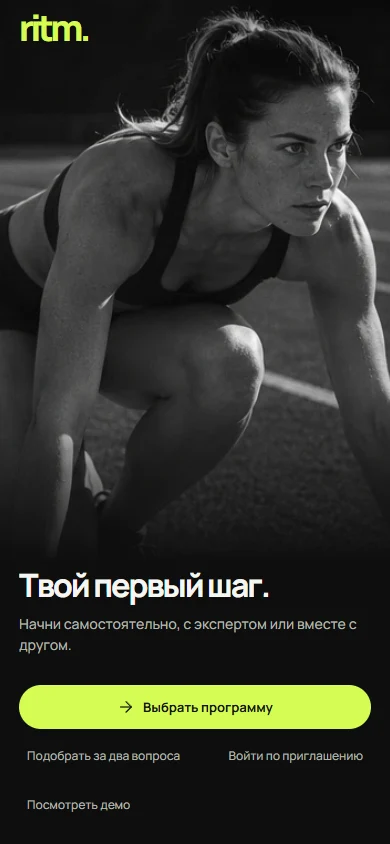
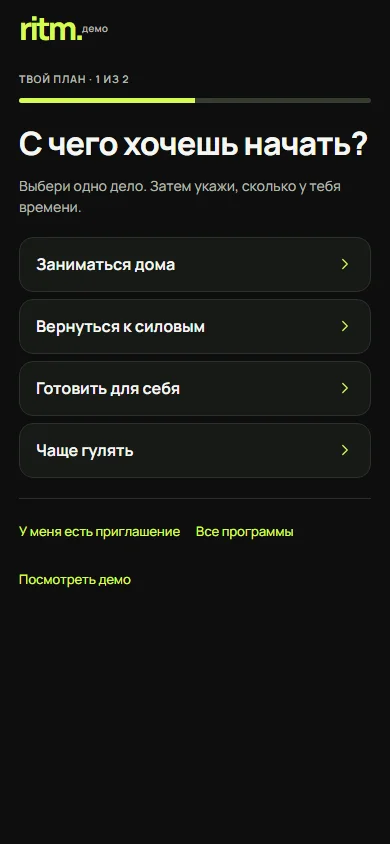
Open the founder preview with the personal questionnaire

diff --git a/docs/meeting/screens/index.html b/docs/meeting/screens/index.html
@@ -1,3 +1,3 @@
 <!DOCTYPE html>
 
-<html lang="ru"><meta charset="utf-8"/><meta content="width=device-width,initial-scale=1" name="viewport"/><title>ritm. — Экраны приложения</title><link href="../assets/fonts.css" rel="stylesheet"/><style>*{box-sizing:border-box}body{margin:0 auto;background:#0d0e0d;color:#f5f6f2;max-width:1100px;padding:24px 18px 70px;font:500 15px/1.45 "Manrope Variable",sans-serif}header{display:flex;align-items:center;justify-content:space-between}header b{font-size:30px;letter-spacing:-.08em;color:#d5fc53}a{color:#d5fc53;text-underline-offset:.2em}h1{letter-spacing:-.05em;font-size:clamp(31px,6vw,54px);line-height:1.1}h2{border-top:1px solid #353831;padding-top:20px;margin:30px 0 12px}.grid{display:grid;grid-template-columns:repeat(auto-fit,minmax(min(158px,44%),1fr));gap:15px}.image{display:block;max-width:240px;border-radius:14px;overflow:hidden;border:1px solid #343930}img{display:block;width:100%;height:auto}h3{font-size:15px;margin:8px 0 1px}p{margin:4px 0;color:#b1b6ac;font-size:13px}article>p a{display:inline-block;padding:5px 0}</style><header><b>ritm.</b><a href="../?screen=programs">Открыть приложение ↗</a></header><h1>Экраны RITM</h1><p>Снимки работающего приложения. Нажми на экран, чтобы рассмотреть детали.</p><a href="RITM-meeting.pdf">PDF для встречи · Founder Preview 1.0</a><section id="solo"><h2>Начать самостоятельно</h2><div class="grid"><article><a class="image" href="solo-programs-390.webp"><img alt="Выбрать программу для себя" loading="lazy" src="solo-programs-390.webp"/></a><h3>Выбрать программу для себя</h3><p><a href="solo-programs-375.webp">375 px</a> · <a href="solo-programs-390.webp">390 px</a> · <a href="solo-programs-430.webp">430 px</a></p></article><article><a class="image" href="plus-390.webp"><img alt="RITM PLUS · тариф для одного" loading="lazy" src="plus-390.webp"/></a><h3>Личный тариф за 990 ₽ в месяц</h3><p><a href="plus-375.webp">375 px</a> · <a href="plus-390.webp">390 px</a> · <a href="plus-430.webp">430 px</a></p></article><article><a class="image" href="coach-390.webp"><img alt="Личный тренер на 28 дней" loading="lazy" src="coach-390.webp"/></a><h3>Личный тренер · 4 990 ₽ за 28 дней</h3><p><a href="coach-375.webp">375 px</a> · <a href="coach-390.webp">390 px</a> · <a href="coach-430.webp">430 px</a></p></article><article><a class="image" href="nutritionist-390.webp"><img alt="Личный нутрициолог на 28 дней" loading="lazy" src="nutritionist-390.webp"/></a><h3>Личный нутрициолог · 12 900 ₽ за 28 дней</h3><p><a href="nutritionist-375.webp">375 px</a> · <a href="nutritionist-390.webp">390 px</a> · <a href="nutritionist-430.webp">430 px</a></p></article><article><a class="image" href="solo-question-390.webp"><img alt="Получить подсказку по двум ответам" loading="lazy" src="solo-question-390.webp"/></a><h3>Получить подсказку по двум ответам</h3><p><a href="solo-question-375.webp">375 px</a> · <a href="solo-question-390.webp">390 px</a> · <a href="solo-question-430.webp">430 px</a></p></article><article><a class="image" href="solo-food-390.webp"><img alt="Выбрать блюдо на одного" loading="lazy" src="solo-food-390.webp"/></a><h3>Выбрать блюдо на одного</h3><p><a href="solo-food-375.webp">375 px</a> · <a href="solo-food-390.webp">390 px</a> · <a href="solo-food-430.webp">430 px</a></p></article><article><a class="image" href="solo-friends-390.webp"><img alt="Предложить другу выбрать ход" loading="lazy" src="solo-friends-390.webp"/></a><h3>Предложить другу выбрать ход</h3><p><a href="solo-friends-375.webp">375 px</a> · <a href="solo-friends-390.webp">390 px</a> · <a href="solo-friends-430.webp">430 px</a></p></article></div></section><section><h2>Первый вход</h2><div class="grid"><article><a class="image" href="welcome-390.webp"><img alt="Первое открытие" loading="lazy" src="welcome-390.webp"/></a><h3>Первое открытие</h3><p><a href="welcome-375.webp">375 px</a> · <a href="welcome-390.webp">390 px</a> · <a href="welcome-430.webp">430 px</a></p></article><article><a class="image" href="invite-code-390.webp"><img alt="Вход по приглашению" loading="lazy" src="invite-code-390.webp"/></a><h3>Вход по приглашению</h3><p><a href="invite-code-390.webp">390 px</a></p></article><article><a class="image" href="start-1-390.webp"><img alt="С чего хочешь начать?" loading="lazy" src="start-1-390.webp"/></a><h3>С чего хочешь начать?</h3><p><a href="start-1-390.webp">390 px</a></p></article><article><a class="image" href="start-2-390.webp"><img alt="Сколько времени есть в день?" loading="lazy" src="start-2-390.webp"/></a><h3>Сколько времени есть в день?</h3><p><a href="start-2-390.webp">390 px</a></p></article><article><a class="image" href="guest-390.webp"><img alt="Гостевой вход" loading="lazy" src="guest-390.webp"/></a><h3>Гостевой вход</h3><p><a href="guest-390.webp">390 px</a></p></article></div></section><section><h2>Сегодня</h2><div class="grid"><article><a class="image" href="today-390.webp"><img alt="В своём ритме" loading="lazy" src="today-390.webp"/></a><h3>В своём ритме</h3><p><a href="today-375.webp">375 px</a> · <a href="today-390.webp">390 px</a> · <a href="today-430.webp">430 px</a></p></article><article><a class="image" href="time-390.webp"><img alt="Доступное время" loading="lazy" src="time-390.webp"/></a><h3>Доступное время</h3><p><a href="time-390.webp">390 px</a></p></article><article><a class="image" href="plan-390.webp"><img alt="Мой план" loading="lazy" src="plan-390.webp"/></a><h3>Мой план</h3><p><a href="plan-390.webp">390 px</a></p></article><article><a class="image" href="ai-390.webp"><img alt="Подстроить план" loading="lazy" src="ai-390.webp"/></a><h3>Подстроить план</h3><p><a href="ai-390.webp">390 px</a></p></article><article><a class="image" href="notifications-390.webp"><img alt="Уведомления" loading="lazy" src="notifications-390.webp"/></a><h3>Уведомления</h3><p><a href="notifications-390.webp">390 px</a></p></article></div></section><section><h2>Питание</h2><div class="grid"><article><a class="image" href="food-390.webp"><img alt="Твоё питание" loading="lazy" src="food-390.webp"/></a><h3>Твоё питание</h3><p><a href="food-375.webp">375 px</a> · <a href="food-390.webp">390 px</a> · <a href="food-430.webp">430 px</a></p></article><article><a class="image" href="pantry-390.webp"><img alt="Из того, что дома" loading="lazy" src="pantry-390.webp"/></a><h3>Из того, что дома</h3><p><a href="pantry-390.webp">390 px</a></p></article><article><a class="image" href="recipe-390.webp"><img alt="Рецепт и порции" loading="lazy" src="recipe-390.webp"/></a><h3>Рецепт и порции</h3><p><a href="recipe-390.webp">390 px</a></p></article><article><a class="image" href="week-390.webp"><img alt="Меню на неделю" loading="lazy" src="week-390.webp"/></a><h3>Меню на неделю</h3><p><a href="week-390.webp">390 px</a></p></article><article><a class="image" href="cart-390.webp"><img alt="Продуктовая корзина" loading="lazy" src="cart-390.webp"/></a><h3>Продуктовая корзина</h3><p><a href="cart-390.webp">390 px</a></p></article></div></section><section><h2>Тренировки</h2><div class="grid"><article><a class="image" href="train-390.webp"><img alt="Твои тренировки" loading="lazy" src="train-390.webp"/></a><h3>Твои тренировки</h3><p><a href="train-375.webp">375 px</a> · <a href="train-390.webp">390 px</a> · <a href="train-430.webp">430 px</a></p></article><article><a class="image" href="work-390.webp"><img alt="Силовой блок" loading="lazy" src="work-390.webp"/></a><h3>Силовой блок</h3><p><a href="work-390.webp">390 px</a></p></article><article><a class="image" href="tech-390.webp"><img alt="Техника и варианты" loading="lazy" src="tech-390.webp"/></a><h3>Техника и варианты</h3><p><a href="tech-390.webp">390 px</a></p></article></div></section><section><h2>PULSE</h2><div class="grid"><article><a class="image" href="pulse-390.webp"><img alt="Твой круг и лента" loading="lazy" src="pulse-390.webp"/></a><h3>Твой круг и лента</h3><p><a href="pulse-375.webp">375 px</a> · <a href="pulse-390.webp">390 px</a> · <a href="pulse-430.webp">430 px</a></p></article><article><a class="image" href="reply-390.webp"><img alt="Ответить своим делом" loading="lazy" src="reply-390.webp"/></a><h3>Ответить своим делом</h3><p><a href="reply-390.webp">390 px</a></p></article><article><a class="image" href="circle-390.webp"><img alt="Управление кругом" loading="lazy" src="circle-390.webp"/></a><h3>Управление кругом</h3><p><a href="circle-390.webp">390 px</a></p></article><article><a class="image" href="leave-390.webp"><img alt="Выход из круга" loading="lazy" src="leave-390.webp"/></a><h3>Выход из круга</h3><p><a href="leave-390.webp">390 px</a></p></article><article><a class="image" href="together-390.webp"><img alt="Совместное время" loading="lazy" src="together-390.webp"/></a><h3>Совместное время</h3><p><a href="together-390.webp">390 px</a></p></article></div></section><section><h2>Арена</h2><div class="grid"><article><a class="image" href="arena-390.webp"><img alt="Арена и счёт" loading="lazy" src="arena-390.webp"/></a><h3>Арена и счёт</h3><p><a href="arena-375.webp">375 px</a> · <a href="arena-390.webp">390 px</a> · <a href="arena-430.webp">430 px</a></p></article><article><a class="image" href="game-390.webp"><img alt="История дуэли" loading="lazy" src="game-390.webp"/></a><h3>История дуэли</h3><p><a href="game-390.webp">390 px</a></p></article><article><a class="image" href="setup-390.webp"><img alt="Новая дуэль" loading="lazy" src="setup-390.webp"/></a><h3>Новая дуэль</h3><p><a href="setup-390.webp">390 px</a></p></article><article><a class="image" href="share-390.webp"><img alt="Приглашение другу" loading="lazy" src="share-390.webp"/></a><h3>Приглашение другу</h3><p><a href="share-390.webp">390 px</a></p></article></div></section><section><h2>Профиль</h2><div class="grid"><article><a class="image" href="dna-1-390.webp"><img alt="Какова твоя цель?" loading="lazy" src="dna-1-390.webp"/></a><h3>Какова твоя цель?</h3><p><a href="dna-1-390.webp">390 px</a></p></article><article><a class="image" href="dna-2-390.webp"><img alt="Какое изменение особенно важно?" loading="lazy" src="dna-2-390.webp"/></a><h3>Какое изменение особенно важно?</h3><p><a href="dna-2-390.webp">390 px</a></p></article><article><a class="image" href="dna-3-390.webp"><img alt="Какой уровень тебе близок?" loading="lazy" src="dna-3-390.webp"/></a><h3>Какой уровень тебе близок?</h3><p><a href="dna-3-390.webp">390 px</a></p></article><article><a class="image" href="dna-4-390.webp"><img alt="Как давно ты тренируешься?" loading="lazy" src="dna-4-390.webp"/></a><h3>Как давно ты тренируешься?</h3><p><a href="dna-4-390.webp">390 px</a></p></article><article><a class="image" href="dna-5-390.webp"><img alt="Сколько времени обычно есть?" loading="lazy" src="dna-5-390.webp"/></a><h3>Сколько времени обычно есть?</h3><p><a href="dna-5-390.webp">390 px</a></p></article><article><a class="image" href="dna-6-390.webp"><img alt="Где удобнее заниматься?" loading="lazy" src="dna-6-390.webp"/></a><h3>Где удобнее заниматься?</h3><p><a href="dna-6-390.webp">390 px</a></p></article><article><a class="image" href="dna-7-390.webp"><img alt="Какое оборудование доступно?" loading="lazy" src="dna-7-390.webp"/></a><h3>Какое оборудование доступно?</h3><p><a href="dna-7-390.webp">390 px</a></p></article><article><a class="image" href="dna-8-390.webp"><img alt="Какую еду выбираешь?" loading="lazy" src="dna-8-390.webp"/></a><h3>Какую еду выбираешь?</h3><p><a href="dna-8-390.webp">390 px</a></p></article><article><a class="image" href="dna-9-390.webp"><img alt="Есть продукты, которые исключить?" loading="lazy" src="dna-9-390.webp"/></a><h3>Есть продукты, которые исключить?</h3><p><a href="dna-9-390.webp">390 px</a></p></article><article><a class="image" href="dna-10-390.webp"><img alt="Что важнее при выборе продуктов?" loading="lazy" src="dna-10-390.webp"/></a><h3>Что важнее при выборе продуктов?</h3><p><a href="dna-10-390.webp">390 px</a></p></article><article><a class="image" href="dna-11-390.webp"><img alt="Что чаще мешает продолжать?" loading="lazy" src="dna-11-390.webp"/></a><h3>Что чаще мешает продолжать?</h3><p><a href="dna-11-390.webp">390 px</a></p></article><article><a class="image" href="dna-12-390.webp"><img alt="Что помогает вернуться?" loading="lazy" src="dna-12-390.webp"/></a><h3>Что помогает вернуться?</h3><p><a href="dna-12-390.webp">390 px</a></p></article><article><a class="image" href="dna-13-390.webp"><img alt="Как хочешь заниматься?" loading="lazy" src="dna-13-390.webp"/></a><h3>Как хочешь заниматься?</h3><p><a href="dna-13-390.webp">390 px</a></p></article><article><a class="image" href="dna-map-390.webp"><img alt="Мои предпочтения" loading="lazy" src="dna-map-390.webp"/></a><h3>Мои предпочтения</h3><p><a href="dna-map-390.webp">390 px</a></p></article><article><a class="image" href="profile-390.webp"><img alt="Личный профиль" loading="lazy" src="profile-390.webp"/></a><h3>Личный профиль</h3><p><a href="profile-375.webp">375 px</a> · <a href="profile-390.webp">390 px</a> · <a href="profile-430.webp">430 px</a></p></article><article><a class="image" href="checkin-390.webp"><img alt="Личные замеры" loading="lazy" src="checkin-390.webp"/></a><h3>Личные замеры</h3><p><a href="checkin-390.webp">390 px</a></p></article><article><a class="image" href="seasonplan-390.webp"><img alt="Настройка сезона" loading="lazy" src="seasonplan-390.webp"/></a><h3>Настройка сезона</h3><p><a href="seasonplan-390.webp">390 px</a></p></article><article><a class="image" href="recap-390.webp"><img alt="Недельный отчёт" loading="lazy" src="recap-390.webp"/></a><h3>Недельный отчёт</h3><p><a href="recap-390.webp">390 px</a></p></article><article><a class="image" href="settings-390.webp"><img alt="Настройки и доступ" loading="lazy" src="settings-390.webp"/></a><h3>Настройки и доступ</h3><p><a href="settings-390.webp">390 px</a></p></article><article><a class="image" href="privacy-390.webp"><img alt="Приватность действий" loading="lazy" src="privacy-390.webp"/></a><h3>Приватность действий</h3><p><a href="privacy-390.webp">390 px</a></p></article></div></section><section><h2>Эксперты</h2><div class="grid"><article><a class="image" href="experts-390.webp"><img alt="Экспертные направления" loading="lazy" src="experts-390.webp"/></a><h3>Экспертные направления</h3><p><a href="experts-375.webp">375 px</a> · <a href="experts-390.webp">390 px</a> · <a href="experts-430.webp">430 px</a></p></article><article><a class="image" href="expert-food-390.webp"><img alt="Нутрициолог" loading="lazy" src="expert-food-390.webp"/></a><h3>Нутрициолог</h3><p><a href="expert-food-390.webp">390 px</a></p></article><article><a class="image" href="expert-train-390.webp"><img alt="Тренер" loading="lazy" src="expert-train-390.webp"/></a><h3>Тренер</h3><p><a href="expert-train-390.webp">390 px</a></p></article></div></section><section><h2>Сезоны</h2><div class="grid"><article><a class="image" href="solo-start-390.webp"><img alt="Личная программа" loading="lazy" src="solo-start-390.webp"/></a><h3>Личная программа</h3><p><a href="solo-start-390.webp">390 px</a></p></article><article><a class="image" href="store-390.webp"><img alt="Личные программы и сезоны" loading="lazy" src="store-390.webp"/></a><h3>Личные программы и сезоны</h3><p><a href="store-375.webp">375 px</a> · <a href="store-390.webp">390 px</a> · <a href="store-430.webp">430 px</a></p></article><article><a class="image" href="food-28-390.webp"><img alt="FOOD 28" loading="lazy" src="food-28-390.webp"/></a><h3>FOOD 28</h3><p><a href="food-28-390.webp">390 px</a></p></article><article><a class="image" href="reset-28-390.webp"><img alt="RESET 28" loading="lazy" src="reset-28-390.webp"/></a><h3>RESET 28</h3><p><a href="reset-28-390.webp">390 px</a></p></article><article><a class="image" href="duo-28-390.webp"><img alt="DUO 28" loading="lazy" src="duo-28-390.webp"/></a><h3>DUO 28</h3><p><a href="duo-28-390.webp">390 px</a></p></article><article><a class="image" href="order-390.webp"><img alt="Заявка на сезон" loading="lazy" src="order-390.webp"/></a><h3>Заявка на сезон</h3><p><a href="order-390.webp">390 px</a></p></article></div></section><section><h2>От приглашения до следующего сезона · Founder Preview 1.0</h2><div class="grid"><article><a class="image" href="choice-guest.webp"><img alt="Гостевой выбор" loading="lazy" src="choice-guest.webp"/></a><h3>Гостевой выбор</h3></article><article><a class="image" href="choice-result.webp"><img alt="Выполненный ход" loading="lazy" src="choice-result.webp"/></a><h3>Выполненный ход</h3></article><article><a class="image" href="offer.webp"><img alt="Условия RESET LEAGUE" loading="lazy" src="offer.webp"/></a><h3>Условия RESET LEAGUE</h3></article><article><a class="image" href="payment.webp"><img alt="Подтверждение учебной оплаты" loading="lazy" src="payment.webp"/></a><h3>Подтверждение учебной оплаты</h3></article><article><a class="image" href="support.webp"><img alt="Ответ нутрициолога" loading="lazy" src="support.webp"/></a><h3>Ответ нутрициолога</h3></article><article><a class="image" href="desk.webp"><img alt="Кабинет специалиста" loading="lazy" src="desk.webp"/></a><h3>Кабинет специалиста</h3></article><article><a class="image" href="journey.webp"><img alt="История сезонов" loading="lazy" src="journey.webp"/></a><h3>История сезонов</h3></article></div></section></html>
+<html lang="ru"><meta charset="utf-8"/><meta content="width=device-width,initial-scale=1" name="viewport"/><title>ritm. — Экраны приложения</title><link href="../assets/fonts.css" rel="stylesheet"/><style>*{box-sizing:border-box}body{margin:0 auto;background:#0d0e0d;color:#f5f6f2;max-width:1100px;padding:24px 18px 70px;font:500 15px/1.45 "Manrope Variable",sans-serif}header{display:flex;align-items:center;justify-content:space-between}header b{font-size:30px;letter-spacing:-.08em;color:#d5fc53}a{color:#d5fc53;text-underline-offset:.2em}h1{letter-spacing:-.05em;font-size:clamp(31px,6vw,54px);line-height:1.1}h2{border-top:1px solid #353831;padding-top:20px;margin:30px 0 12px}.grid{display:grid;grid-template-columns:repeat(auto-fit,minmax(min(158px,44%),1fr));gap:15px}.image{display:block;max-width:240px;border-radius:14px;overflow:hidden;border:1px solid #343930}img{display:block;width:100%;height:auto}h3{font-size:15px;margin:8px 0 1px}p{margin:4px 0;color:#b1b6ac;font-size:13px}article>p a{display:inline-block;padding:5px 0}</style><header><b>ritm.</b><a href="../?screen=programs">Открыть приложение ↗</a></header><h1>Экраны RITM</h1><p>Снимки работающего приложения. Нажми на экран, чтобы рассмотреть детали.</p><a href="RITM-meeting.pdf">PDF для встречи · Founder Preview 1.0</a><section id="solo"><h2>Начать самостоятельно</h2><div class="grid"><article><a class="image" href="solo-programs-390.webp"><img alt="Выбрать программу для себя" loading="lazy" src="solo-programs-390.webp"/></a><h3>Выбрать программу для себя</h3><p><a href="solo-programs-375.webp">375 px</a> · <a href="solo-programs-390.webp">390 px</a> · <a href="solo-programs-430.webp">430 px</a></p></article><article><a class="image" href="plus-390.webp"><img alt="RITM PLUS · тариф для одного" loading="lazy" src="plus-390.webp"/></a><h3>Личный тариф за 990 ₽ в месяц</h3><p><a href="plus-375.webp">375 px</a> · <a href="plus-390.webp">390 px</a> · <a href="plus-430.webp">430 px</a></p></article><article><a class="image" href="coach-390.webp"><img alt="Личный тренер на 28 дней" loading="lazy" src="coach-390.webp"/></a><h3>Личный тренер · 4 990 ₽ за 28 дней</h3><p><a href="coach-375.webp">375 px</a> · <a href="coach-390.webp">390 px</a> · <a href="coach-430.webp">430 px</a></p></article><article><a class="image" href="nutritionist-390.webp"><img alt="Личный нутрициолог на 28 дней" loading="lazy" src="nutritionist-390.webp"/></a><h3>Личный нутрициолог · 12 900 ₽ за 28 дней</h3><p><a href="nutritionist-375.webp">375 px</a> · <a href="nutritionist-390.webp">390 px</a> · <a href="nutritionist-430.webp">430 px</a></p></article><article><a class="image" href="solo-question-390.webp"><img alt="Получить подсказку по двум ответам" loading="lazy" src="solo-question-390.webp"/></a><h3>Получить подсказку по двум ответам</h3><p><a href="solo-question-375.webp">375 px</a> · <a href="solo-question-390.webp">390 px</a> · <a href="solo-question-430.webp">430 px</a></p></article><article><a class="image" href="solo-food-390.webp"><img alt="Выбрать блюдо на одного" loading="lazy" src="solo-food-390.webp"/></a><h3>Выбрать блюдо на одного</h3><p><a href="solo-food-375.webp">375 px</a> · <a href="solo-food-390.webp">390 px</a> · <a href="solo-food-430.webp">430 px</a></p></article><article><a class="image" href="solo-friends-390.webp"><img alt="Предложить другу выбрать ход" loading="lazy" src="solo-friends-390.webp"/></a><h3>Предложить другу выбрать ход</h3><p><a href="solo-friends-375.webp">375 px</a> · <a href="solo-friends-390.webp">390 px</a> · <a href="solo-friends-430.webp">430 px</a></p></article></div></section><section><h2>Первый вход</h2><div class="grid"><article><a class="image" href="welcome-390.webp"><img alt="Первое открытие" loading="lazy" src="welcome-390.webp"/></a><h3>Первое открытие</h3><p><a href="welcome-375.webp">375 px</a> · <a href="welcome-390.webp">390 px</a> · <a href="welcome-430.webp">430 px</a></p></article><article><a class="image" href="invite-code-390.webp"><img alt="Вход по приглашению" loading="lazy" src="invite-code-390.webp"/></a><h3>Вход по приглашению</h3><p><a href="invite-code-390.webp">390 px</a></p></article><article><a class="image" href="start-1-390.webp"><img alt="С чего хочешь начать?" loading="lazy" src="start-1-390.webp"/></a><h3>С чего хочешь начать?</h3><p><a href="start-1-390.webp">390 px</a></p></article><article><a class="image" href="start-2-390.webp"><img alt="Сколько минут у тебя есть?" loading="lazy" src="start-2-390.webp"/></a><h3>Сколько минут у тебя есть?</h3><p><a href="start-2-390.webp">390 px</a></p></article><article><a class="image" href="guest-390.webp"><img alt="Гостевой вход" loading="lazy" src="guest-390.webp"/></a><h3>Гостевой вход</h3><p><a href="guest-390.webp">390 px</a></p></article></div></section><section><h2>Сегодня</h2><div class="grid"><article><a class="image" href="today-390.webp"><img alt="В своём ритме" loading="lazy" src="today-390.webp"/></a><h3>В своём ритме</h3><p><a href="today-375.webp">375 px</a> · <a href="today-390.webp">390 px</a> · <a href="today-430.webp">430 px</a></p></article><article><a class="image" href="time-390.webp"><img alt="Доступное время" loading="lazy" src="time-390.webp"/></a><h3>Доступное время</h3><p><a href="time-390.webp">390 px</a></p></article><article><a class="image" href="plan-390.webp"><img alt="Мой план" loading="lazy" src="plan-390.webp"/></a><h3>Мой план</h3><p><a href="plan-390.webp">390 px</a></p></article><article><a class="image" href="ai-390.webp"><img alt="Подстроить план" loading="lazy" src="ai-390.webp"/></a><h3>Подстроить план</h3><p><a href="ai-390.webp">390 px</a></p></article><article><a class="image" href="notifications-390.webp"><img alt="Уведомления" loading="lazy" src="notifications-390.webp"/></a><h3>Уведомления</h3><p><a href="notifications-390.webp">390 px</a></p></article></div></section><section><h2>Питание</h2><div class="grid"><article><a class="image" href="food-390.webp"><img alt="Твоё питание" loading="lazy" src="food-390.webp"/></a><h3>Твоё питание</h3><p><a href="food-375.webp">375 px</a> · <a href="food-390.webp">390 px</a> · <a href="food-430.webp">430 px</a></p></article><article><a class="image" href="pantry-390.webp"><img alt="Из того, что дома" loading="lazy" src="pantry-390.webp"/></a><h3>Из того, что дома</h3><p><a href="pantry-390.webp">390 px</a></p></article><article><a class="image" href="recipe-390.webp"><img alt="Рецепт и порции" loading="lazy" src="recipe-390.webp"/></a><h3>Рецепт и порции</h3><p><a href="recipe-390.webp">390 px</a></p></article><article><a class="image" href="week-390.webp"><img alt="Меню на неделю" loading="lazy" src="week-390.webp"/></a><h3>Меню на неделю</h3><p><a href="week-390.webp">390 px</a></p></article><article><a class="image" href="cart-390.webp"><img alt="Продуктовая корзина" loading="lazy" src="cart-390.webp"/></a><h3>Продуктовая корзина</h3><p><a href="cart-390.webp">390 px</a></p></article></div></section><section><h2>Тренировки</h2><div class="grid"><article><a class="image" href="train-390.webp"><img alt="Твои тренировки" loading="lazy" src="train-390.webp"/></a><h3>Твои тренировки</h3><p><a href="train-375.webp">375 px</a> · <a href="train-390.webp">390 px</a> · <a href="train-430.webp">430 px</a></p></article><article><a class="image" href="work-390.webp"><img alt="Силовой блок" loading="lazy" src="work-390.webp"/></a><h3>Силовой блок</h3><p><a href="work-390.webp">390 px</a></p></article><article><a class="image" href="tech-390.webp"><img alt="Техника и варианты" loading="lazy" src="tech-390.webp"/></a><h3>Техника и варианты</h3><p><a href="tech-390.webp">390 px</a></p></article></div></section><section><h2>PULSE</h2><div class="grid"><article><a class="image" href="pulse-390.webp"><img alt="Твой круг и лента" loading="lazy" src="pulse-390.webp"/></a><h3>Твой круг и лента</h3><p><a href="pulse-375.webp">375 px</a> · <a href="pulse-390.webp">390 px</a> · <a href="pulse-430.webp">430 px</a></p></article><article><a class="image" href="reply-390.webp"><img alt="Ответить своим делом" loading="lazy" src="reply-390.webp"/></a><h3>Ответить своим делом</h3><p><a href="reply-390.webp">390 px</a></p></article><article><a class="image" href="circle-390.webp"><img alt="Управление кругом" loading="lazy" src="circle-390.webp"/></a><h3>Управление кругом</h3><p><a href="circle-390.webp">390 px</a></p></article><article><a class="image" href="leave-390.webp"><img alt="Выход из круга" loading="lazy" src="leave-390.webp"/></a><h3>Выход из круга</h3><p><a href="leave-390.webp">390 px</a></p></article><article><a class="image" href="together-390.webp"><img alt="Совместное время" loading="lazy" src="together-390.webp"/></a><h3>Совместное время</h3><p><a href="together-390.webp">390 px</a></p></article></div></section><section><h2>Арена</h2><div class="grid"><article><a class="image" href="arena-390.webp"><img alt="Арена и счёт" loading="lazy" src="arena-390.webp"/></a><h3>Арена и счёт</h3><p><a href="arena-375.webp">375 px</a> · <a href="arena-390.webp">390 px</a> · <a href="arena-430.webp">430 px</a></p></article><article><a class="image" href="game-390.webp"><img alt="История дуэли" loading="lazy" src="game-390.webp"/></a><h3>История дуэли</h3><p><a href="game-390.webp">390 px</a></p></article><article><a class="image" href="setup-390.webp"><img alt="Новая дуэль" loading="lazy" src="setup-390.webp"/></a><h3>Новая дуэль</h3><p><a href="setup-390.webp">390 px</a></p></article><article><a class="image" href="share-390.webp"><img alt="Приглашение другу" loading="lazy" src="share-390.webp"/></a><h3>Приглашение другу</h3><p><a href="share-390.webp">390 px</a></p></article></div></section><section><h2>Профиль</h2><div class="grid"><article><a class="image" href="dna-1-390.webp"><img alt="Какова твоя цель?" loading="lazy" src="dna-1-390.webp"/></a><h3>Какова твоя цель?</h3><p><a href="dna-1-390.webp">390 px</a></p></article><article><a class="image" href="dna-2-390.webp"><img alt="Какое изменение особенно важно?" loading="lazy" src="dna-2-390.webp"/></a><h3>Какое изменение особенно важно?</h3><p><a href="dna-2-390.webp">390 px</a></p></article><article><a class="image" href="dna-3-390.webp"><img alt="Какой уровень тебе близок?" loading="lazy" src="dna-3-390.webp"/></a><h3>Какой уровень тебе близок?</h3><p><a href="dna-3-390.webp">390 px</a></p></article><article><a class="image" href="dna-4-390.webp"><img alt="Как давно ты тренируешься?" loading="lazy" src="dna-4-390.webp"/></a><h3>Как давно ты тренируешься?</h3><p><a href="dna-4-390.webp">390 px</a></p></article><article><a class="image" href="dna-5-390.webp"><img alt="Сколько времени обычно есть?" loading="lazy" src="dna-5-390.webp"/></a><h3>Сколько времени обычно есть?</h3><p><a href="dna-5-390.webp">390 px</a></p></article><article><a class="image" href="dna-6-390.webp"><img alt="Где удобнее заниматься?" loading="lazy" src="dna-6-390.webp"/></a><h3>Где удобнее заниматься?</h3><p><a href="dna-6-390.webp">390 px</a></p></article><article><a class="image" href="dna-7-390.webp"><img alt="Какое оборудование доступно?" loading="lazy" src="dna-7-390.webp"/></a><h3>Какое оборудование доступно?</h3><p><a href="dna-7-390.webp">390 px</a></p></article><article><a class="image" href="dna-8-390.webp"><img alt="Какую еду выбираешь?" loading="lazy" src="dna-8-390.webp"/></a><h3>Какую еду выбираешь?</h3><p><a href="dna-8-390.webp">390 px</a></p></article><article><a class="image" href="dna-9-390.webp"><img alt="Есть продукты, которые исключить?" loading="lazy" src="dna-9-390.webp"/></a><h3>Есть продукты, которые исключить?</h3><p><a href="dna-9-390.webp">390 px</a></p></article><article><a class="image" href="dna-10-390.webp"><img alt="Что важнее при выборе продуктов?" loading="lazy" src="dna-10-390.webp"/></a><h3>Что важнее при выборе продуктов?</h3><p><a href="dna-10-390.webp">390 px</a></p></article><article><a class="image" href="dna-11-390.webp"><img alt="Что чаще мешает продолжать?" loading="lazy" src="dna-11-390.webp"/></a><h3>Что чаще мешает продолжать?</h3><p><a href="dna-11-390.webp">390 px</a></p></article><article><a class="image" href="dna-12-390.webp"><img alt="Что помогает вернуться?" loading="lazy" src="dna-12-390.webp"/></a><h3>Что помогает вернуться?</h3><p><a href="dna-12-390.webp">390 px</a></p></article><article><a class="image" href="dna-13-390.webp"><img alt="Как хочешь заниматься?" loading="lazy" src="dna-13-390.webp"/></a><h3>Как хочешь заниматься?</h3><p><a href="dna-13-390.webp">390 px</a></p></article><article><a class="image" href="dna-map-390.webp"><img alt="Мои предпочтения" loading="lazy" src="dna-map-390.webp"/></a><h3>Мои предпочтения</h3><p><a href="dna-map-390.webp">390 px</a></p></article><article><a class="image" href="profile-390.webp"><img alt="Личный профиль" loading="lazy" src="profile-390.webp"/></a><h3>Личный профиль</h3><p><a href="profile-375.webp">375 px</a> · <a href="profile-390.webp">390 px</a> · <a href="profile-430.webp">430 px</a></p></article><article><a class="image" href="checkin-390.webp"><img alt="Личные замеры" loading="lazy" src="checkin-390.webp"/></a><h3>Личные замеры</h3><p><a href="checkin-390.webp">390 px</a></p></article><article><a class="image" href="seasonplan-390.webp"><img alt="Настройка сезона" loading="lazy" src="seasonplan-390.webp"/></a><h3>Настройка сезона</h3><p><a href="seasonplan-390.webp">390 px</a></p></article><article><a class="image" href="recap-390.webp"><img alt="Недельный отчёт" loading="lazy" src="recap-390.webp"/></a><h3>Недельный отчёт</h3><p><a href="recap-390.webp">390 px</a></p></article><article><a class="image" href="settings-390.webp"><img alt="Настройки и доступ" loading="lazy" src="settings-390.webp"/></a><h3>Настройки и доступ</h3><p><a href="settings-390.webp">390 px</a></p></article><article><a class="image" href="privacy-390.webp"><img alt="Приватность действий" loading="lazy" src="privacy-390.webp"/></a><h3>Приватность действий</h3><p><a href="privacy-390.webp">390 px</a></p></article></div></section><section><h2>Эксперты</h2><div class="grid"><article><a class="image" href="experts-390.webp"><img alt="Экспертные направления" loading="lazy" src="experts-390.webp"/></a><h3>Экспертные направления</h3><p><a href="experts-375.webp">375 px</a> · <a href="experts-390.webp">390 px</a> · <a href="experts-430.webp">430 px</a></p></article><article><a class="image" href="expert-food-390.webp"><img alt="Нутрициолог" loading="lazy" src="expert-food-390.webp"/></a><h3>Нутрициолог</h3><p><a href="expert-food-390.webp">390 px</a></p></article><article><a class="image" href="expert-train-390.webp"><img alt="Тренер" loading="lazy" src="expert-train-390.webp"/></a><h3>Тренер</h3><p><a href="expert-train-390.webp">390 px</a></p></article></div></section><section><h2>Сезоны</h2><div class="grid"><article><a class="image" href="solo-start-390.webp"><img alt="Личная программа" loading="lazy" src="solo-start-390.webp"/></a><h3>Личная программа</h3><p><a href="solo-start-390.webp">390 px</a></p></article><article><a class="image" href="store-390.webp"><img alt="Личные программы и сезоны" loading="lazy" src="store-390.webp"/></a><h3>Личные программы и сезоны</h3><p><a href="store-375.webp">375 px</a> · <a href="store-390.webp">390 px</a> · <a href="store-430.webp">430 px</a></p></article><article><a class="image" href="food-28-390.webp"><img alt="FOOD 28" loading="lazy" src="food-28-390.webp"/></a><h3>FOOD 28</h3><p><a href="food-28-390.webp">390 px</a></p></article><article><a class="image" href="reset-28-390.webp"><img alt="RESET 28" loading="lazy" src="reset-28-390.webp"/></a><h3>RESET 28</h3><p><a href="reset-28-390.webp">390 px</a></p></article><article><a class="image" href="duo-28-390.webp"><img alt="DUO 28" loading="lazy" src="duo-28-390.webp"/></a><h3>DUO 28</h3><p><a href="duo-28-390.webp">390 px</a></p></article><article><a class="image" href="order-390.webp"><img alt="Заявка на сезон" loading="lazy" src="order-390.webp"/></a><h3>Заявка на сезон</h3><p><a href="order-390.webp">390 px</a></p></article></div></section><section><h2>От приглашения до следующего сезона · Founder Preview 1.0</h2><div class="grid"><article><a class="image" href="choice-guest.webp"><img alt="Гостевой выбор" loading="lazy" src="choice-guest.webp"/></a><h3>Гостевой выбор</h3></article><article><a class="image" href="choice-result.webp"><img alt="Выполненный ход" loading="lazy" src="choice-result.webp"/></a><h3>Выполненный ход</h3></article><article><a class="image" href="offer.webp"><img alt="Условия RESET LEAGUE" loading="lazy" src="offer.webp"/></a><h3>Условия RESET LEAGUE</h3></article><article><a class="image" href="payment.webp"><img alt="Подтверждение учебной оплаты" loading="lazy" src="payment.webp"/></a><h3>Подтверждение учебной оплаты</h3></article><article><a class="image" href="support.webp"><img alt="Ответ нутрициолога" loading="lazy" src="support.webp"/></a><h3>Ответ нутрициолога</h3></article><article><a class="image" href="desk.webp"><img alt="Кабинет специалиста" loading="lazy" src="desk.webp"/></a><h3>Кабинет специалиста</h3></article><article><a class="image" href="journey.webp"><img alt="История сезонов" loading="lazy" src="journey.webp"/></a><h3>История сезонов</h3></article></div></section></html>

diff --git a/docs/meeting/premium.js b/docs/meeting/premium.js
@@ -103,14 +103,17 @@ function showHomePlan() {
 }
 const times=()=>'<div class="chips">'+[5,10,20,30,60].map(v=>b(v+' мин','time:'+v,'chip '+(v===time?'on':''))).join('')+'</div>';
 function intro() {
-  return '<section class="entry"><div class="entry-image">'+photo('edition/start','Бегунья перед стартом')+
-    '</div><div class="entry-copy"><h1><span>Твой первый шаг.</span></h1><p>Начни самостоятельно, с экспертом или вместе с другом.</p>'+
-    b('Выбрать программу','go:store','btn full','arrow-right')+'<div class="entry-options">'+
-    b('Подобрать за два вопроса','start','textbtn')+b('Войти по приглашению','invitation','textbtn')+b('Посмотреть демо',demo?'demo-start':'open-demo','textbtn')+(!demo?b('Восстановить профиль','go:recover','textbtn'):'')+'</div></div></section>';
+  const options=quickQuestions[0][2].map(goal=>'<button type="button" class="entry-answer" data-a="start-goal:'+e(goal)+'"><span>'+e(goalLabels[goal])+'</span>'+I('chevron-right',18)+'</button>').join('');
+  return '<section class="entry-question">'+label('Твой план · 1 из 2')+'<div class="meter"><i style="width:50%"></i></div>'+
+    '<h1>С чего хочешь начать?</h1><p>Выбери одно дело. Затем укажи, сколько у тебя времени.</p>'+
+    '<div class="answer-list">'+options+'</div><div class="entry-links">'+
+    b('У меня есть приглашение','invitation','textbtn')+
+    b('Все программы','go:store','textbtn')+b('Посмотреть демо',demo?'demo-start':'open-demo','textbtn')+
+    (!demo?b('Восстановить профиль','go:recover','textbtn'):'')+'</div></section>';
 }
 function dna(){
   const steps=questions(), [k,storedTitle,opts,optional]=steps[step];
-  const title=formMode==='quick'?(k==='goal'?'С чего хочешь начать?':'Сколько времени есть в день?'):storedTitle;
+  const title=formMode==='quick'?(k==='goal'?'С чего хочешь начать?':'Сколько минут у тебя есть?'):storedTitle;
   const choices=opts.map(o=>{
     const txt=k==='goal'?(goalLabels[o]||o):k==='minutes'?o+' минут':o;
     const checked=draft[k]===o;
@@ -120,6 +123,7 @@ function dna(){
   const next=step<steps.length-1?'Дальше':formMode==='quick'?'Посмотреть программу':'Сохранить ответы';
   return '<div class="onboarding-screen">'+label((formMode==='quick'?'Подбор программы':'Мои предпочтения')+' · '+(step+1)+' из '+steps.length)+
     '<div class="meter"><i style="width:'+pct(step+1,steps.length)+'%"></i></div><h1>'+e(title)+'</h1>'+
+    (formMode==='quick'&&step===1?muted((goalLabels[draft.goal]||draft.goal)+' · выбери удобную длительность.'):'')+
     (optional?muted('Учитываем ответ при подборе блюд. Этот вопрос можно пропустить.'):'')+
     '<div class="answer-list">'+choices+'</div>'+(custom?field('customLimit','Какие продукты исключить?',draft.custom||'','text','maxlength="120"'):'')+
     '<button class="btn full" data-a="dnanext" '+(!draft[k]?'disabled':'')+'>'+next+I('arrow-right',18)+'</button>'+
@@ -337,6 +341,9 @@ async function handle(id){const [cmd,...args]=id.split(':'),v=args.join(':');if(
    const action=member.source?'Последнее дело · '+labels[member.kind]+' · '+RitmHome.relative(member.at,S.server_time):'Пока нет новых дел, открытых кругу.';
    homeSheet(member.name||'Участник',muted(action)+'<div class="sheet-links">'+(member.source&&!member.answered?b('Ответить своим делом','memberreply:'+member.person,'','zap'):'')+b('Открыть круг','game:'+member.game,'','users')+'</div>');break;
  }
+ case 'start-goal':
+   if(!quickQuestions[0][2].includes(v))break;
+   expose('start');draft={...S.dna,goal:v};formMode='quick';step=1;route('dna');break;
  case 'back':back();break;case 'start':expose('start');draft={...S.dna};formMode='quick';step=0;route('dna');break;
  case 'named':{const name=$('#startname').value.trim();if(!name)throw Error('Введи имя для друзей.');await write('profile',{name,goal:S.profile.goal||'Регулярное движение',barrier:S.profile.barrier||'Мало времени',program:S.profile.program||'Своя программа'});draft={...S.dna};formMode='quick';step=0;route('dna');break;}
  case 'editdna':{
@@ -457,7 +464,7 @@ if(demo&&!location.search&&!Object.keys(localStorage).some(k=>k.startsWith(windo
  const pulse = document.querySelector('.splash .loading-pulse');
  document.body.dataset.screen='intro';
  $('#content').innerHTML='<div class="screen">'+intro()+'</div>';
- if (pulse) document.querySelector('.entry-image').append(pulse);
+ if (pulse) document.querySelector('.entry-question').prepend(pulse);
 }
 const startup=init().catch(err=>{$('#content').innerHTML=head('Не удалось открыть RITM')+muted(err.message)+'<button class="btn" id="retry">Попробовать ещё раз</button>';$('#retry').onclick=()=>location.reload();});
 })();

diff --git a/docs/meeting/index.html b/docs/meeting/index.html
@@ -1,8 +1,8 @@
-<!doctype html><html lang="ru"><head><meta charset="utf-8"><meta name="viewport" content="width=device-width, initial-scale=1, viewport-fit=cover"><meta name="theme-color" content="#0D0E0D"><meta name="apple-mobile-web-app-capable" content="yes"><meta name="mobile-web-app-capable" content="yes"><meta name="apple-mobile-web-app-status-bar-style" content="black-translucent"><meta name="apple-mobile-web-app-title" content="RITM"><title>ritm. — Твой день</title><link rel="icon" href="icon.png"><link rel="apple-touch-icon" sizes="180x180" href="assets/edition/apple-touch.png"><link rel="manifest" href="manifest.webmanifest?v=system1"><link rel="stylesheet" href="assets/fonts.css"><link rel="stylesheet" href="premium.css?v=pulse1"><link rel="stylesheet" href="assets/home/home.css"><link rel="stylesheet" href="assets/edition/app.css?v=plus1"><link rel="stylesheet" href="assets/edition/lifecycle.css?v=meeting3"></head><body>
+<!doctype html><html lang="ru"><head><meta charset="utf-8"><meta name="viewport" content="width=device-width, initial-scale=1, viewport-fit=cover"><meta name="theme-color" content="#0D0E0D"><meta name="apple-mobile-web-app-capable" content="yes"><meta name="mobile-web-app-capable" content="yes"><meta name="apple-mobile-web-app-status-bar-style" content="black-translucent"><meta name="apple-mobile-web-app-title" content="RITM"><title>ritm. — Твой день</title><link rel="icon" href="icon.png"><link rel="apple-touch-icon" sizes="180x180" href="assets/edition/apple-touch.png"><link rel="manifest" href="manifest.webmanifest?v=system1"><link rel="stylesheet" href="assets/fonts.css"><link rel="stylesheet" href="premium.css?v=pulse1"><link rel="stylesheet" href="assets/home/home.css"><link rel="stylesheet" href="assets/edition/app.css?v=firstquestion"><link rel="stylesheet" href="assets/edition/lifecycle.css?v=meeting3"></head><body>
 <a class="skip" href="#content">К содержимому</a><div class="shell"><header id="head"><span class="wordmark">ritm.</span></header><main id="content" tabindex="-1"><div class="splash"><span class="wordmark">ritm.</span><svg class="loading-pulse" width="168" height="56" viewBox="0 0 168 56" aria-hidden="true" focusable="false">
   <g class="loading-pulse-track">
     <path id="loading-heartbeat" d="M0 30h24c6 0 7-7 12-7s6 7 12 7h13l5 5 7-29 8 45 7-24 5 3h15c6 0 8-7 15-7s10 7 16 7h29"/>
     <use href="#loading-heartbeat" x="168"/>
   </g>
 </svg><noscript><a style="color:#D5FC53" href="./screens/">Посмотреть экраны RITM без JavaScript</a></noscript><p role="status">Открываем твой день…</p></div></main><nav id="nav" aria-label="Основная навигация"></nav></div><div id="toast" role="status" aria-live="polite"></div>
-<script>window.RITM_PREMIUM=true;</script><script src="meeting-start.js?v=solo1"></script><script src="browser.js?rev=plus990"></script><script src="assets/icons.js"></script><script src="content.js?v=plus990"></script><script src="season.js"></script><script src="app.js"></script><script src="assets/edition/visual.js"></script><script src="assets/home/view.js?v=solo1"></script><script src="assets/edition/choice.js?v=solo1"></script><script src="assets/edition/lifecycle.js?v=meeting2"></script><script src="assets/edition/programs.js?v=plus990"></script><script src="premium.js?rev=plus990"></script></body></html>
+<script>window.RITM_PREMIUM=true;</script><script src="meeting-start.js?v=solo1"></script><script src="browser.js?rev=plus990"></script><script src="assets/icons.js"></script><script src="content.js?v=plus990"></script><script src="season.js"></script><script src="app.js"></script><script src="assets/edition/visual.js"></script><script src="assets/home/view.js?v=solo1"></script><script src="assets/edition/choice.js?v=solo1"></script><script src="assets/edition/lifecycle.js?v=meeting2"></script><script src="assets/edition/programs.js?v=plus990"></script><script src="premium.js?rev=firstquestion"></script></body></html>

diff --git a/docs/meeting/assets/edition/app.css b/docs/meeting/assets/edition/app.css
@@ -114,18 +114,16 @@ body .home-pulse h2 {margin:0;font-size:19px;}
 .score-link {display:flex;align-items:center;justify-content:space-between;border-top:1px solid var(--divider);padding-top:10px;color:var(--accent);}
 .mode-list button {display:flex;align-items:center;text-align:left;width:100%;gap:12px;border-bottom:1px solid var(--divider);padding:9px 0;}
 .mode-list button>span {flex:1;display:grid;}.mode-list small {font-size:12px;}
-body[data-screen="intro"] #head {position:absolute;z-index:2;left:50%;transform:translateX(-50%);width:min(100%,460px);}
-body[data-screen="intro"] #content {padding:0;}
-body[data-screen="intro"] #head .home-tools {display:none;}
-.entry {min-height:100vh;min-height:100dvh;background:var(--bg);display:flex;flex-direction:column;position:relative;overflow:hidden;}
-.entry-image {flex:1 0 auto;height:clamp(265px,52vh,530px);height:clamp(265px,52dvh,530px);position:relative;}
-.entry-image img {position:absolute;inset:0;width:100%;height:100%;object-fit:cover;object-position:50% 38%;}
-.entry-image:after {content:"";position:absolute;inset:0;background:linear-gradient(to bottom,rgba(0,0,0,.33),transparent 22%,transparent 70%,var(--bg));}
-.entry-copy {padding:6px var(--right) calc(17px + var(--inset-b)) var(--gutter);}
-body[data-screen="intro"] h1 {font-size:clamp(39px,9vw,48px);line-height:1.02;letter-spacing:-.06em;margin:0 0 13px;}
-.entry-copy p {color:var(--quiet);margin:0 0 25px;}
-.entry-options {display:flex;justify-content:space-between;gap:5px;}
-.entry-options button {font-size:12px;color:var(--quiet);}
+body[data-screen="intro"] #head {position:relative;}
+.entry-question {padding-top:8px;}
+.entry-question .meter {margin:10px 0 22px;}
+.entry-question h1 {margin:0 0 8px;}
+.entry-question p {color:var(--quiet);line-height:1.45;margin:0 0 20px;}
+.entry-answer {display:flex;align-items:center;justify-content:space-between;width:100%;min-height:55px;gap:16px;padding:12px 16px;text-align:left;border-radius:14px;border:1px solid var(--divider);background:var(--surface);font-weight:650;}
+.entry-answer svg {color:var(--accent);}
+.entry-answer:focus-visible {outline:2px solid var(--accent);outline-offset:2px;}
+.entry-links {display:flex;flex-wrap:wrap;gap:4px 16px;border-top:1px solid var(--divider);padding-top:10px;margin-top:20px;}
+.entry-links .textbtn {min-height:44px;padding:6px 0;font-size:13px;}
 #toast:not(:empty) {bottom:calc(var(--dock) + var(--inset-b) + 10px);}
 @media(max-height:820px){.home-active #head{height:calc(49px + var(--inset-t))}.home-active .home-week{padding-bottom:6px;}}
 @media(display-mode:standalone) {.shell{min-height:100dvh;}html{overscroll-behavior-y:contain;}}
@@ -253,3 +251,10 @@ body[data-screen="food"] .segmented .chip {white-space:nowrap;padding-inline:5px
 .plus-feature {display:flex;align-items:center;gap:13px;padding:12px 0;border-bottom:1px solid var(--divider)}
 .plus-feature small {margin-top:3px;line-height:1.45}
 .plus-saved {display:flex;align-items:center;justify-content:center;gap:8px;min-height:46px}
+
+.food-tools,.onboard-links {flex-wrap:wrap;row-gap:6px;}
+button.textbtn:has(svg),button.linebtn:has(svg),button.chip:has(svg),button.btn:has(svg) {display:inline-flex;align-items:center;justify-content:center;column-gap:9px;}
+body:not(.home-active) h1 {letter-spacing:-.025em;}
+.entry-answer,.answer-option {font-size:16px;line-height:1.4;}
+.pulse-tools .linebtn {flex:1 1 138px;min-height:44px;line-height:1.3;}
+.entry-links .textbtn,.food-tools .textbtn {min-height:44px;}
